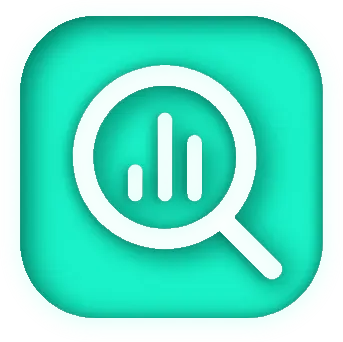
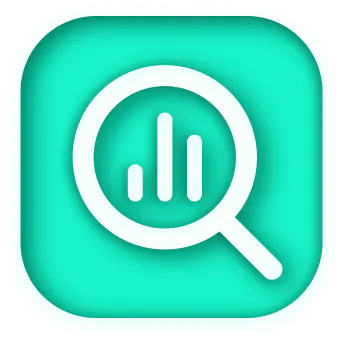
[MSbAzkYT] - Услуги - Создал секцию услуг

diff --git a/src/pages/main/ui/page/sections/services/index.vue b/src/pages/main/ui/page/sections/services/index.vue
@@ -1,48 +1,174 @@
-<script lang="ts" setup>
-import type { ServiceItemType } from "./types";
-
-const serviceItemList: ServiceItemType[] = [
-  {
-    Id: Date.now(),
-    ImgPath: "/images/magnifier.webp",
-    Title: "Профессиональный аудит",
-    SubTitle: "вашего приложения",
-  },
-];
-</script>
+<script lang="ts" setup></script>
 
 <template>
   <div class="relative">
     <UiBlurCircle
       color="bg-turquoise-100"
-      class="absolute top-[-18.5rem] left-[-6.5rem] w-[18.25rem] h-[18.25rem]"
+      class="absolute top-[-6.5rem] left-[-6.5rem] w-[18.25rem] h-[18.25rem] max-md:w-[7.304rem] max-md:h-[7.304rem]"
     />
     <UiBlurCircle
       color="bg-violet"
-      class="absolute top-[-18.5rem] right-[-6.5rem] w-[18.25rem] h-[18.25rem]"
+      class="absolute top-[-18.5rem] right-[-6.5rem] w-[18.25rem] h-[18.25rem] max-md:w-[9.025rem] max-md:h-[9.025rem]"
     />
     <div class="text-center">
       <h1
-        class="text-6xl leading-[100%] font-bold bg-gradient-to-r dark:from-turquoise-100 dark:to-green bg-clip-text text-transparent"
+        class="text-6xl max-md:text-[1.75rem] max-md:leading-[100%] leading-[100%] font-bold bg-gradient-to-r dark:from-turquoise-100 dark:to-green bg-clip-text text-transparent"
       >
         Услуги
       </h1>
       <p
-        class="text-xl leading-[100%] text-mediumGray font-medium mt-[2.23rem]"
+        class="text-xl max-md:text-base max-md:leading-[100%] leading-[100%] text-mediumGray font-medium mt-[2.23rem] max-md:mt-4"
       >
-        Внимательно относимся к каждому клиенту,<br />
+        Внимательно относимся к каждому клиенту,<br class="max-md:hidden" />
         оказывая качественные услуги по минимальной цене
       </p>
     </div>
-    <div>
-      <ServiceCardWidget
-        v-for="item in serviceItemList"
-        :key="item.Id"
-        :ImgPath="item.ImgPath"
-        :Title="item.Title"
-        :SubTitle="item.SubTitle"
-        class="mt-20"
-      />
+    <div
+      class="grid grid-cols-2 max-md:grid-cols-1 gap-4 mt-20 max-md:mt-10 max-md:justify-items-center"
+    >
+      <div
+        class="w-[45rem] max-md:w-[17.65rem] max-md:h-[20rem] h-[35rem] flex flex-col items-center bg-[url('images/noise.webp')] bg-jetBlack pt-[5.8rem] max-md:pt-[2.3rem] pb-[8rem] rounded-[3rem] relative"
+      >
+        <NuxtImg
+          src="/images/magnifier.webp"
+          class="w-[17.1rem] h-[17.1rem] max-md:w-[9.6rem] max-md:h-[9.6rem] z-30"
+        />
+        <div class="text-center mt-[1.7rem] leading-[100%]">
+          <h1
+            class="text-2xl max-md:text-lg max-md:leading-[1.45rem] font-semibold bg-gradient-to-r dark:from-turquoise-100 dark:to-green bg-clip-text text-transparent"
+          >
+            Профессиональный <br class="md:hidden" />
+            аудит
+            <span class="text-white">
+              <br class="max-md:hidden" />
+              вашего <br class="md:hidden" />
+              приложения</span
+            >
+          </h1>
+        </div>
+        <NuxtImg
+          src="images/gridServiceCard.webp"
+          class="absolute top-0 w-[45rem] h-[35rem] max-md:w-[17.65rem] max-md:h-[20rem] z-20"
+        />
+        <UiBlurCircle
+          color="bg-turquoise-100"
+          class="absolute w-[6.95rem] max-md:w-[2.8285rem] max-md:h-[2.8285rem] h-[6.95rem] z-[1] top-[7rem] left-[23.45rem] max-md:left-[5.4725rem]"
+        />
+        <UiBlurCircle
+          color="bg-turquoise-100"
+          class="absolute w-[6.95rem] h-[6.95rem] z-[1] max-md:w-[2.8285rem] max-md:h-[2.8285rem] max-md:left-[9.65rem] max-md:top-[4.25rem] top-[16.25rem] left-[16.65rem]"
+        />
+      </div>
+      <div
+        class="w-[45rem] max-md:w-[17.65rem] max-md:h-[20rem] h-[35rem] flex flex-col items-center bg-[url('images/noise.webp')] bg-jetBlack pt-[5.8rem] max-md:pt-[2.3rem] pb-[8rem] rounded-[3rem] relative"
+      >
+        <NuxtImg
+          src="/images/google-uac.webp"
+          class="w-[18.2595rem] h-[17.856rem] max-md:w-[10.291rem] max-md:h-[10.4895rem] z-30"
+        />
+        <div class="text-center mt-[1.3rem] max-md:mt-[1.5rem] leading-[100%]">
+          <h1
+            class="text-2xl max-md:text-lg max-md:leading-[100%] font-semibold bg-gradient-to-r dark:from-turquoise-100 dark:to-green bg-clip-text text-transparent"
+          >
+            Google Uac
+          </h1>
+          <h1
+            class="text-2xl max-md:text-lg max-md:mt-[.25rem] max-md:leading-[100%] font-semibold"
+          >
+            реклама
+          </h1>
+        </div>
+        <NuxtImg
+          src="images/gridServiceCard.webp"
+          class="absolute top-0 w-[45rem] h-[35rem] max-md:w-[17.65rem] max-md:h-[20rem] z-20"
+        />
+        <UiBlurCircle
+          color="bg-turquoise-100"
+          class="absolute w-[6.95rem] h-[6.95rem] max-md:w-[2.8285rem] max-md:h-[2.8285rem] z-[1] top-[7rem] left-[23.45rem] max-md:left-[9.35rem] max-md:top-[3.3145rem]"
+        />
+        <UiBlurCircle
+          color="bg-turquoise-100"
+          class="absolute w-[6.95rem] h-[6.95rem] max-md:w-[2.8285rem] max-md:h-[2.8285rem] z-[1] top-[16.25rem] left-[16.65rem] max-md:left-[5.5rem] max-md:top-[8.6rem]"
+        />
+      </div>
+      <div
+        class="w-[45rem] max-md:w-[17.65rem] max-md:h-[20rem] h-[35rem] flex flex-col items-center bg-[url('images/noise.webp')] bg-jetBlack pt-[5.8rem] max-md:pt-[2.8rem] pb-[8rem] rounded-[3rem] relative"
+      >
+        <NuxtImg
+          src="/images/is.webp"
+          class="absolute w-[6.2rem] top-[6.45rem] max-md:top-[2.55rem] max-md:left-[11.35rem] right-[11.37rem] h-[5.85rem] max-md:w-[2.95rem] max-md:h-[2.925rem] z-30"
+        />
+        <NuxtImg
+          src="/images/unity.webp"
+          class="absolute w-[11.6rem] top-[13.8rem] max-md:top-[5.95rem] max-md:right-[3.15rem] right-[10.95rem] h-[11.1rem] max-md:w-[6.05rem] max-md:h-[6.05rem] z-30"
+        />
+        <NuxtImg
+          src="/images/figures.webp"
+          class="absolute w-[9.4rem] max-md:top-[1.1055rem] max-md:left-[5rem] top-[3.381rem] left-[16.015rem] h-[11.95rem] max-md:w-[5.2rem] max-md:h-[5.475rem] z-30"
+        />
+        <NuxtImg
+          src="/images/triangle.webp"
+          class="absolute w-[10.532rem] max-md:top-[6.675rem] max-md:left-[1.9rem] top-[14.5rem] left-[9.4rem] h-[10.585rem] max-md:w-[5.466rem] max-md:h-[4.8925rem] z-30"
+        />
+        <div
+          class="text-center mt-[18.7rem] max-md:mt-[10.999rem] leading-[100%]"
+        >
+          <h1
+            class="text-2xl max-md:text-lg max-md:leading-[100%] font-semibold bg-gradient-to-r dark:from-turquoise-100 dark:to-green bg-clip-text text-transparent"
+          >
+            In-App
+          </h1>
+          <h1
+            class="text-2xl max-md:text-lg max-md:leading-[100%] font-semibold"
+          >
+            реклама
+          </h1>
+        </div>
+        <NuxtImg
+          src="images/gridServiceCard.webp"
+          class="absolute top-0 w-[45rem] h-[35rem] max-md:w-[17.65rem] max-md:h-[20rem] z-20"
+        />
+        <UiBlurCircle
+          color="bg-turquoise-100"
+          class="absolute w-[6.95rem] h-[6.95rem] max-md:w-[2.8285rem] max-md:h-[2.8285rem] z-[1] top-[10rem] left-[11.4rem] max-md:left-[3.275rem] max-md:top-[4.325rem]"
+        />
+        <UiBlurCircle
+          color="bg-turquoise-100"
+          class="absolute w-[6.95rem] h-[6.95rem] max-md:w-[2.8285rem] max-md:h-[2.8285rem] z-[1] top-[15.8rem] left-[24.355rem] max-md:left-[9.7525rem] max-md:top-[7.225rem]"
+        />
+      </div>
+      <div
+        class="w-[45rem] max-md:w-[17.65rem] max-md:h-[20rem] h-[35rem] flex flex-col items-center bg-[url('images/noise.webp')] bg-jetBlack pt-[5.8rem] max-md:pt-[2.8rem] pb-[8rem] rounded-[3rem] relative"
+      >
+        <NuxtImg
+          src="/images/ASO.webp"
+          class="w-[31.75rem] mt-8 h-[14.6rem] max-md:w-[14.45rem] max-md:h-[5.8rem] z-30"
+        />
+        <div class="text-center mt-[3.3rem] leading-[100%]">
+          <h1
+            class="text-2xl max-md:text-lg max-md:leading-[100%] font-semibold bg-gradient-to-r dark:from-turquoise-100 dark:to-green bg-clip-text text-transparent"
+          >
+            ASO оптимизация
+          </h1>
+          <h1
+            class="text-2xl max-md:text-lg max-md:mt-[0.4rem] max-md:leading-[100%] font-semibold"
+          >
+            для любого приложения
+          </h1>
+        </div>
+        <NuxtImg
+          src="images/gridServiceCard.webp"
+          class="absolute top-0 w-[45rem] h-[35rem] max-md:w-[17.65rem] max-md:h-[20rem] z-20"
+        />
+        <UiBlurCircle
+          color="bg-turquoise-100"
+          class="absolute w-[6.95rem] h-[6.95rem] max-md:w-[2.8285rem] max-md:h-[2.8285rem] z-[1] top-[11.25rem] left-[14.35rem] max-md:top-20 max-md:left-16"
+        />
+        <UiBlurCircle
+          color="bg-turquoise-100"
+          class="absolute w-[6.95rem] h-[6.95rem] max-md:w-[3.2rem] max-md:h-[2.4rem] z-[1] top-[11.25rem] left-[26.2rem] max-md:top-[7.9rem] max-md:left-[10.4775rem]"
+        />
+      </div>
     </div>
   </div>
 </template>

diff --git a/src/widgets/service-card/ui/index.vue b/src/widgets/service-card/ui/index.vue
@@ -1,0 +1,30 @@
+<script setup lang="ts">
+import type { ServiceCardProps } from "../types";
+
+const props = defineProps<ServiceCardProps>();
+</script>
+
+<template>
+  <div
+    class="w-[45rem] max-md:w-[17.65rem] max-md:h-[20rem] h-[35rem] flex flex-col items-center bg-[url('images/noise.webp')] bg-jetBlack pt-[5.8rem] pb-[8rem] rounded-[3rem] relative"
+  >
+    <NuxtImg
+      :src="ImgPath"
+      class="w-[15.1rem] h-[15.1rem] max-md:w-40 max-md:h-40 z-30"
+    />
+    <div class="text-center mt-[1.3rem] leading-[100%]">
+      <h1
+        class="text-2xl max-md:text-lg max-md:leading-[100%] font-semibold bg-gradient-to-r dark:from-turquoise-100 dark:to-green bg-clip-text text-transparent"
+      >
+        {{ Title }}
+      </h1>
+      <h1 class="text-2xl max-md:text-lg max-md:leading-[100%] font-semibold">
+        {{ SubTitle }}
+      </h1>
+    </div>
+    <NuxtImg
+      src="images/gridServiceCard.webp"
+      class="absolute top-0 w-[45rem] h-[35rem] max-md:w-[17.65rem] max-md:h-[20rem] z-20"
+    />
+  </div>
+</template>

diff --git a/src/app/routes/index.vue b/src/app/routes/index.vue
@@ -1,8 +1,9 @@
 <template>
-  <div class="ml-10 mr-8 my-[2.35rem]">
-    <MainPage />
+  <div class="overflow-hidden">
+    <div class="ml-10 mr-8 my-[2.35rem] max-md:mx-4">
+      <MainPage />
+    </div>
   </div>
 </template>
 
-<script setup>
-</script>
+<script setup></script>

diff --git a/src/app/assets/css/tailwind.css b/src/app/assets/css/tailwind.css
@@ -6,6 +6,10 @@
   :root {
     font-family: "sf-pro-display";
     font-size: 1.041666666666667vw;
+    @apply max-md:text-[20px];
+  }
+  ::-webkit-scrollbar {
+    width: 0;
   }
   body {
     @apply bg-black;